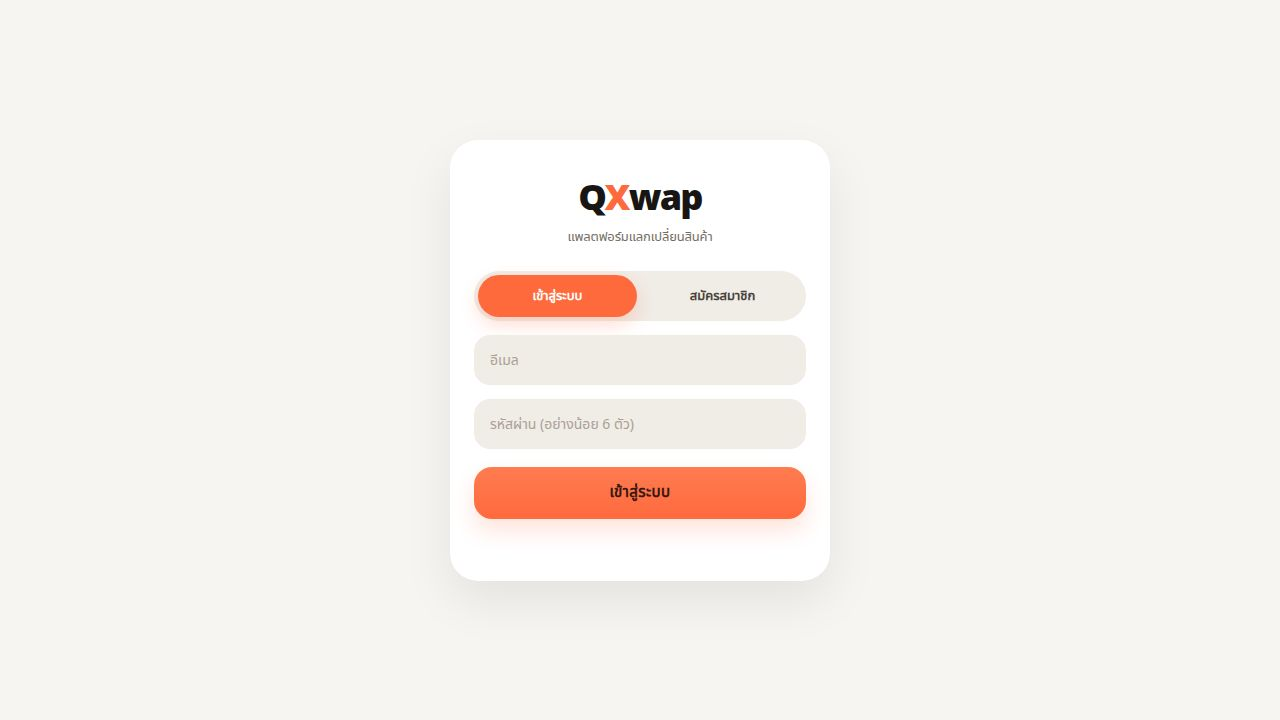
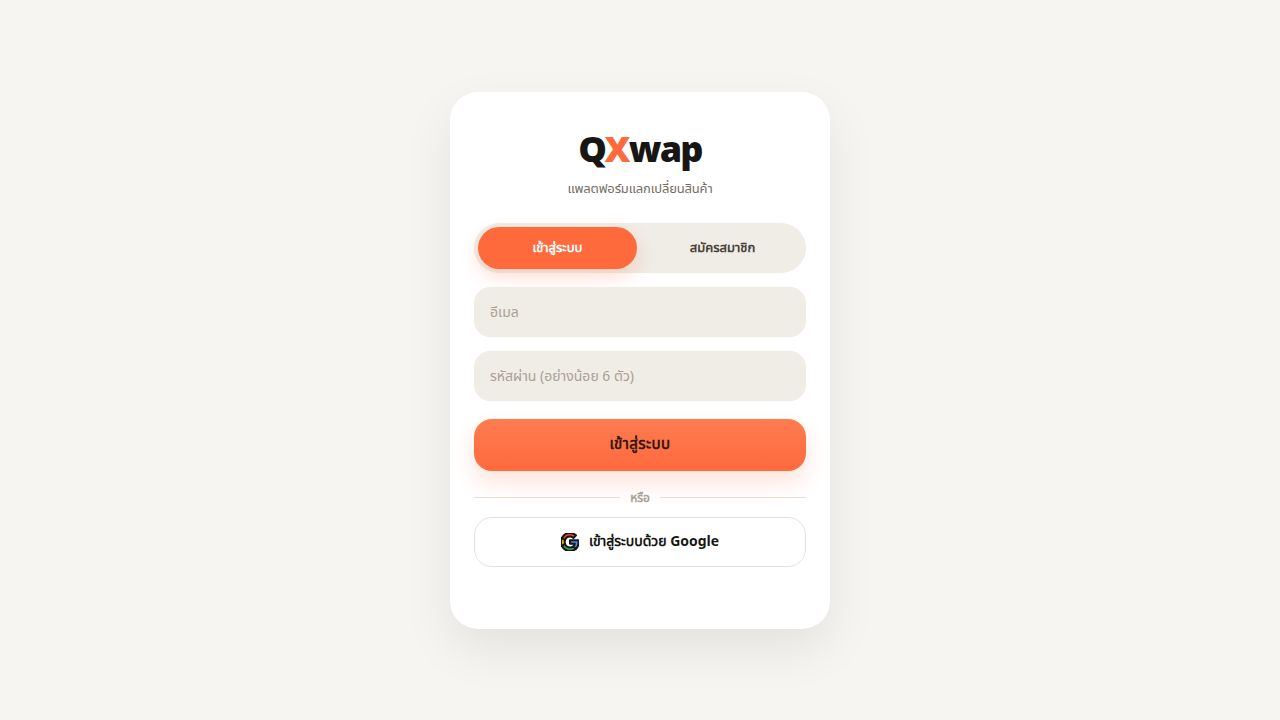
Published your App
Replit-Commit-Author: Deployment
Replit-Commit-Session-Id: 270fa908-6c5c-49bf-93f3-6f2e9f644c34
Replit-Commit-Checkpoint-Type: full_checkpoint
Replit-Commit-Event-Id: a04a4e7b-dcec-4cc9-b9ef-4bf6065e98eb
Replit-Commit-Screenshot-Url: https://storage.googleapis.com/screenshot-production-us-central1/bd4f47a7-7b49-4d2e-aa35-5265bf9ebdaa/270fa908-6c5c-49bf-93f3-6f2e9f644c34/NGKo4Cb
Replit-Commit-Deployment-Build-Id: 5f0ef5bf-1e1c-4aa3-97a0-959186b041bf
Replit-Helium-Checkpoint-Created: true

Changed region(s): [[0.3438, 0.1833, 0.6562, 0.7639], [0.3438, 0.7944, 0.6562, 0.8556]]

diff --git a/artifacts/web-app/index.html b/artifacts/web-app/index.html
@@ -1720,6 +1720,12 @@ h1,h2,h3{font-weight:900;}
     #qx-auth-overlay .qx-field input::placeholder{color:#aaa095}
     #qx-auth-overlay .qx-submit{width:100%;height:52px;margin-top:18px;border:none;border-radius:18px;background:linear-gradient(180deg,#ff7b51,#ff6a3d);color:#341811;font-weight:900;font-size:15px;letter-spacing:.03em;text-transform:uppercase;box-shadow:0 12px 22px rgba(255,106,61,.18);cursor:pointer}
     #qx-auth-overlay .qx-submit:disabled{opacity:.6;cursor:not-allowed}
+    #qx-auth-overlay .qx-divider{display:flex;align-items:center;gap:10px;margin:18px 0 10px;color:#aaa095;font-size:12px;font-weight:700}
+    #qx-auth-overlay .qx-divider::before,#qx-auth-overlay .qx-divider::after{content:'';flex:1;height:1px;background:#e7e1d8}
+    #qx-auth-overlay .qx-google{width:100%;height:50px;border:1px solid #e7e1d8;border-radius:18px;background:#fff;color:#171614;font-weight:700;font-size:14px;display:flex;align-items:center;justify-content:center;gap:10px;cursor:pointer;transition:background .15s}
+    #qx-auth-overlay .qx-google:hover{background:#f7f5f1}
+    #qx-auth-overlay .qx-google:disabled{opacity:.6;cursor:not-allowed}
+    #qx-auth-overlay .qx-google svg{width:18px;height:18px;flex-shrink:0}
     #qx-auth-overlay .qx-msg{margin-top:12px;text-align:center;font-size:13px;color:#b13205;min-height:18px}
     #qx-auth-overlay .qx-msg.ok{color:#1f8c58}
 
@@ -1770,6 +1776,11 @@ h1,h2,h3{font-weight:900;}
       <div class="qx-field"><input id="qx-email" type="email" placeholder="อีเมล" autocomplete="email" /></div>
       <div class="qx-field"><input id="qx-password" type="password" placeholder="รหัสผ่าน (อย่างน้อย 6 ตัว)" autocomplete="current-password" /></div>
       <button id="qx-submit" class="qx-submit" onclick="qxSubmit()">เข้าสู่ระบบ</button>
+      <div class="qx-divider">หรือ</div>
+      <button id="qx-google" class="qx-google" type="button" onclick="qxGoogleSignIn()">
+        <svg viewBox="0 0 18 18" xmlns="http://www.w3.org/2000/svg"><path fill="#4285F4" d="M17.64 9.2c0-.64-.06-1.25-.16-1.84H9v3.48h4.84a4.14 4.14 0 0 1-1.8 2.72v2.26h2.92c1.7-1.57 2.68-3.88 2.68-6.62z"/><path fill="#34A853" d="M9 18c2.43 0 4.47-.81 5.96-2.18l-2.92-2.26c-.81.54-1.84.86-3.04.86-2.34 0-4.32-1.58-5.03-3.7H.96v2.33A8.997 8.997 0 0 0 9 18z"/><path fill="#FBBC05" d="M3.97 10.71A5.4 5.4 0 0 1 3.68 9c0-.59.1-1.17.29-1.71V4.96H.96A8.997 8.997 0 0 0 0 9c0 1.45.35 2.82.96 4.04l3.01-2.33z"/><path fill="#EA4335" d="M9 3.58c1.32 0 2.5.45 3.44 1.34l2.58-2.58C13.46.89 11.43 0 9 0A8.997 8.997 0 0 0 .96 4.96l3.01 2.33C4.68 5.16 6.66 3.58 9 3.58z"/></svg>
+        เข้าสู่ระบบด้วย Google
+      </button>
       <div id="qx-msg" class="qx-msg"></div>
     </div>
   </div>
@@ -1851,6 +1862,23 @@ h1,h2,h3{font-weight:900;}
       const el = document.getElementById('qx-loading');
       if(msg) document.getElementById('qx-loading-msg').textContent = msg;
       el.classList.toggle('show', !!show);
+    }
+    async function qxGoogleSignIn(){
+      const btn = document.getElementById('qx-google'); btn.disabled = true;
+      qxMsg('');
+      try{
+        const { error } = await window.SB.auth.signInWithOAuth({
+          provider: 'google',
+          options: { redirectTo: window.location.origin + window.location.pathname }
+        });
+        if(error) throw error;
+      } catch(e){
+        const m = (e && e.message) || 'เข้าสู่ระบบด้วย Google ผิดพลาด';
+        if(/provider.*not.*enabled|Unsupported provider/i.test(m)){
+          qxMsg('ยังไม่ได้เปิด Google ใน Supabase — โปรดตั้งค่า provider ก่อน');
+        } else { qxMsg(m); }
+        btn.disabled = false;
+      }
     }
     async function qxSubmit(){
       const email = document.getElementById('qx-email').value.trim();
@@ -6060,10 +6088,27 @@ function renderFeed(){
   }
 
   async function ensureProfile(user){
+    const meta = user.user_metadata || {};
+    const googleName = meta.full_name || meta.name || null;
+    const googleAvatar = meta.avatar_url || meta.picture || null;
     const { data } = await SB.from('profiles').select('*').eq('id', user.id).maybeSingle();
-    if(data) return data;
-    const username = (user.email || 'user').split('@')[0] + '_' + user.id.slice(0,4);
-    const { data: created } = await SB.from('profiles').insert({id:user.id,username,display_name:username,avatar_url:null}).select().single();
+    if(data){
+      // Backfill Google name/avatar if profile exists but is missing them
+      const patch = {};
+      if(googleAvatar && !data.avatar_url) patch.avatar_url = googleAvatar;
+      if(googleName && (!data.display_name || data.display_name === data.username)) patch.display_name = googleName;
+      if(Object.keys(patch).length){
+        const { data: updated } = await SB.from('profiles').update(patch).eq('id', user.id).select().single();
+        return updated || data;
+      }
+      return data;
+    }
+    const emailPrefix = (user.email || 'user').split('@')[0];
+    const username = emailPrefix.replace(/[^a-zA-Z0-9_]/g,'_').slice(0,20) + '_' + user.id.slice(0,4);
+    const display_name = googleName || username;
+    const { data: created } = await SB.from('profiles').insert({
+      id: user.id, username, display_name, avatar_url: googleAvatar
+    }).select().single();
     return created;
   }
 
